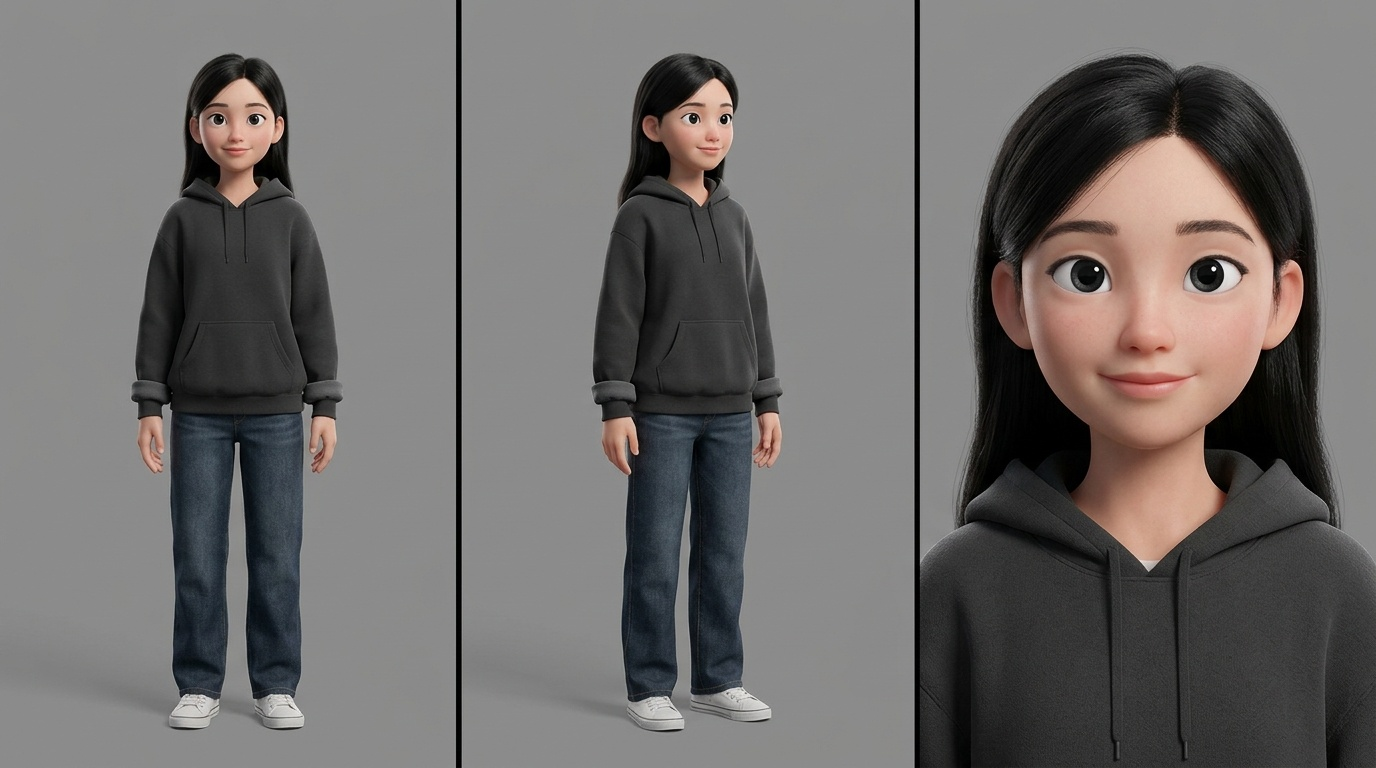
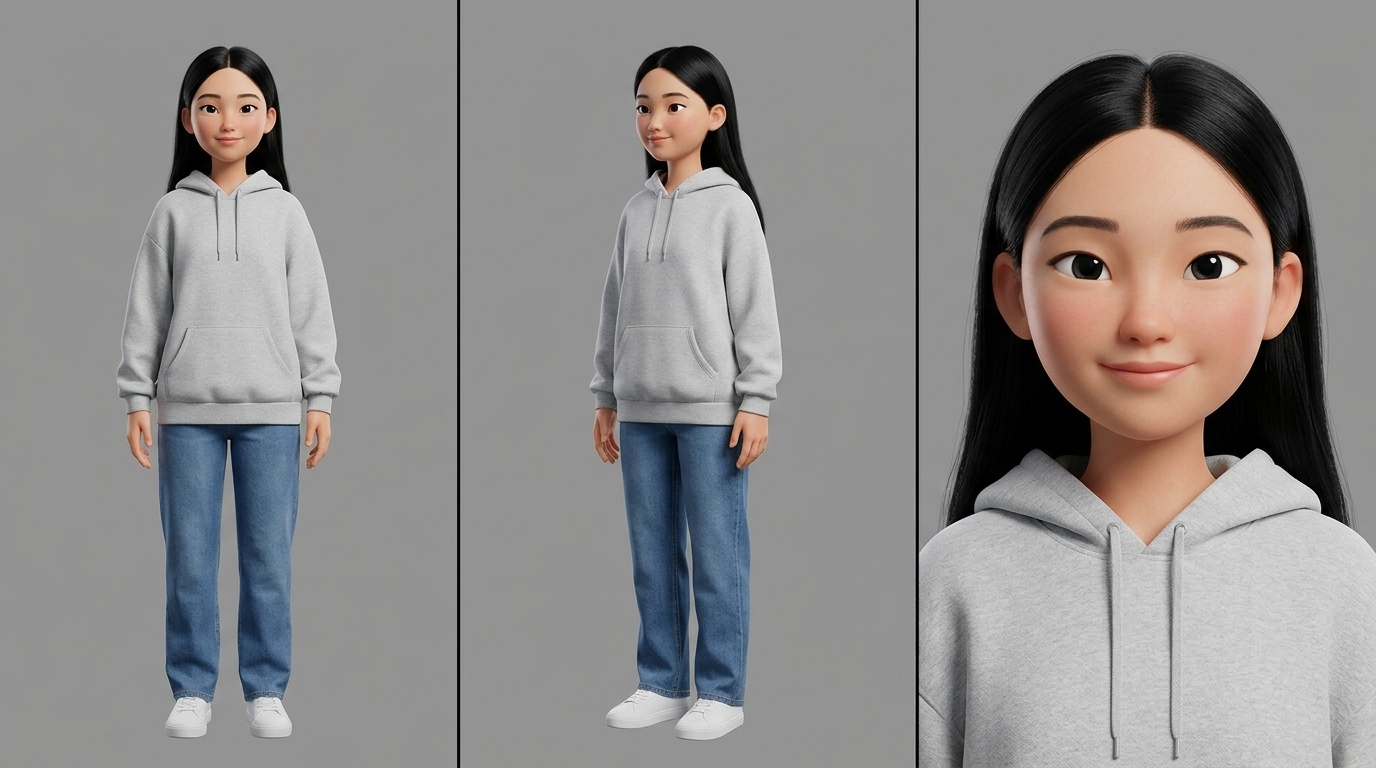
Update Character Sheets: Ruslan canonical face with luxury tee, Aigerim without wrap, Aigerim vacation slides, Daughter grey hoodie

diff --git a/index.html b/index.html
@@ -1139,7 +1139,7 @@
           <div class="asset-body">
             <span class="asset-tag">Сцена 5 · Прогулка</span>
             <h3 class="asset-title">Старшая дочь (15 лет)</h3>
-            <p class="asset-desc">Юная 15-летняя девушка-подросток со свежими нежными чертами лица, длинные прямые темные волосы, стильное оверсайз-худи в стиле современного кэжуал-стритвир, джинсы и белые кеды.</p>
+            <p class="asset-desc">Светло-серое оверсайз-худи, классические синие джинсы и белые кеды. Юный образ, прямые темные волосы и открытая улыбка.</p>
           </div>
         </div>
 
@@ -1841,7 +1841,7 @@
     // Gallery Data for Lightbox
     const galleries = {
       storyboard: [{"img": "assets/images/storyboard/01_shot1_1_scene1_ruslan_child_entry.jpg?v=1794492184", "title": "Shot 1.1 · Первое появление героя", "desc": "«Сегодня особенный день — день рождения человека, чей жизненный путь вдохновляет.»"}, {"img": "assets/images/storyboard/02_shot1_2_scene1_family_birthday_table.jpg?v=1794492184", "title": "Shot 1.2 · Семейный праздник за столом", "desc": "«Всё началось с крепких корней...»"}, {"img": "assets/images/storyboard/03_shot2_1_scene2_ruslan_youth_portrait.jpg?v=1794492184", "title": "Shot 2.1 · Становление характера (19 лет)", "desc": "«...безграничной любви и нежной заботы мамы...»"}, {"img": "assets/images/storyboard/04_shot2_2_scene2_family_hall_blessing.jpg?v=1794492184", "title": "Shot 2.2 · Родительское благословение (20 лет)", "desc": "«...мудрости и чести, заложенных отцом.»"}, {"img": "assets/images/storyboard/05_shot3_1_scene3_navy_officer_deck.jpg?v=1794492184", "title": "Shot 3.1 · Офицер флота на вахте", "desc": "«Белоснежная форма офицера морского флота открыла бескрайние горизонты...»"}, {"img": "assets/images/storyboard/06_shot3_2_scene3_caspian_sunrise_vista.jpg?v=1794492184", "title": "Shot 3.2 · Бескрайние горизонты Каспия", "desc": "«...и научила уверенно держать штурвал судьбы.»"}, {"img": "assets/images/storyboard/07_shot4_1_scene4_chess_grandmaster.jpg?v=1794492184", "title": "Shot 4.1 · Гроссмейстер за доской", "desc": "«...а шахматы, спорт и докторская степень...»"}, {"img": "assets/images/storyboard/08_shot4_2_scene4_academic_sports_study.jpg?v=1794492184", "title": "Shot 4.2 · Стратегия и академический статус", "desc": "«...воспитали характер созидателя...»"}, {"img": "assets/images/storyboard/08b_shot4_3_scene4_championship_awards_detail.jpg?v=1794492184", "title": "Shot 4.3 · Спортивный триумф и победы", "desc": "«...и победителя.»"}, {"img": "assets/images/storyboard/09_shot5_1_scene5_father_and_children_walk.jpg?v=1794492184", "title": "Shot 5.1 · Счастливая прогулка по Терренкуру", "desc": "«Главное счастье и гордость Руслана — его трое детей...»"}, {"img": "assets/images/storyboard/10_shot5_2_scene5_father_hugging_three_kids.jpg?v=1794492184", "title": "Shot 5.2 · Отец — главный герой", "desc": "«...для которых отец всегда останется настоящим героем.»"}, {"img": "assets/images/storyboard/11_shot6_1_scene6_executive_leader_focus.jpg?v=1794492184", "title": "Shot 6.1 · Взгляд первого руководителя", "desc": "«А впереди — новые горизонты и управление масштабными проектами...»"}, {"img": "assets/images/storyboard/12_shot6_2_scene6_mining_hq_epic_finale.jpg?v=1794492184", "title": "Shot 6.2 · Эпический финал и триумф", "desc": "«...в горнорудной индустрии на благо страны. С днем рождения, Руслан!»"}],
-      characters: [{"img": "assets/images/characters/01_scene1_ruslan_child_10yo.jpg?v=1794492184", "title": "Руслан в детстве (10 лет)", "desc": "1985 год · Сцена 1 — Светлый, энергичный мальчик 10 лет с открытым взглядом. Нарядная белая рубашка, винтажный вязаный жилет. Любознательный, горящие глаза."}, {"img": "assets/images/characters/02_scene1_mom_young_32yo.jpg?v=1794492184", "title": "Молодая мама (~32 года)", "desc": "1985 год · Сцена 1 — Молодая мама со светлыми пшенично-золотистыми волосами (блонд), нежное винтажное пастельное платье. Образ безграничной материнской заботы, тепла и уюта."}, {"img": "assets/images/characters/03_scene1_dad_young_36yo.jpg?v=1794492184", "title": "Молодой папа Бакытжан (~36 лет)", "desc": "1985 год · Сцена 1 — Молодой ученый-интеллигент, густые темные волосы без седины, БЕЗ ОЧКОВ. Белая рубашка с расстегнутым воротом. Спокойствие, мудрость."}, {"img": "assets/images/characters/04_scene1_sister_alina_child_6yo.jpg?v=1794492184", "title": "Сестренка Алина в детстве (6 лет)", "desc": "1985 год · Сцена 1 — Милая девочка с темными косичками и бантами, нарядное детское платье советского периода. Радостный и звонкий детский смех."}, {"img": "assets/images/characters/05_scene2_ruslan_youth_19yo.jpg?v=1794492184", "title": "Руслан в юности (19 лет)", "desc": "1994 год · Сцена 2 — Статный юноша студенческих лет, волевой подбородок, густые темные волосы. Кэжуал-куртка 90-х, решительный характер."}, {"img": "assets/images/characters/06_scene2_dad_mature_48yo.jpg?v=1794492184", "title": "Отец-наставник Бакытжан (48 лет)", "desc": "1994 год · Сцена 2 — Зрелый ученый с благородной проседью на висках, БЕЗ ОЧКОВ. Темный пиджак, академическая осанка. Главный наставник сына."}, {"img": "assets/images/characters/07_scene2_mom_mature_44yo.jpg?v=1794492184", "title": "Мудрая мама (44 года)", "desc": "1994 год · Сцена 2 — Зрелая женщина с добрыми лучистыми глазами, элегантный костюм. Мама, гордящаяся взрослением сына."}, {"img": "assets/images/characters/08_scene2_sister_alina_teen_16yo.jpg?v=1794492184", "title": "Сестра Алина — Подросток (16 лет)", "desc": "1994 год · Сцена 2 — Повзрослевшая сестренка-студентка в джинсовой куртке 90-х, с открытым взглядом и доброй улыбкой."}, {"img": "assets/images/characters/09_scene3_ruslan_navy_officer.jpg?v=1794492184", "title": "Руслан — Морской офицер (23 года)", "desc": "1998 год · Сцена 3 — Офицер ВМФ в белоснежном кителе с золотыми пуговицами и погонами. Выправка, мужественность, романтика морских просторов."}, {"img": "assets/images/characters/10_scene4_ruslan_academic_intellect.jpg?v=1794492184", "title": "Руслан — Стратег и ученый (30 лет)", "desc": "2005 год · Сцена 4 — Руслан в период защиты докторской степени и спортивных побед. Темно-синий костюм, идеальная физическая форма."}, {"img": "assets/images/characters/11_scene5_ruslan_father_47yo.jpg?v=1794492184", "title": "Руслан — Заботливый отец (47 лет)", "desc": "2017 год · Сцена 5 — Зрелый мужчина в уютном кэжуал-свитере и куртке для прогулок с детьми. Теплые морщинки у глаз, счастье отцовства."}, {"img": "assets/images/characters/12_scene5_daughter_eldest_21yo.jpg?v=1794492184", "title": "Старшая дочь (15 лет)", "desc": "Сцена 5 — Юная 15-летняя девушка-подросток в стильном оверсайз-худи, джинсах и белых кедах. Свежие нежные черты лица, длинные темные волосы, открытая улыбка."}, {"img": "assets/images/characters/13_scene5_son_eldest_19yo.jpg?v=1794492184", "title": "Старший сын (19 лет)", "desc": "Сцена 5 · Прогулка — Статный юноша спортивного телосложения, синяя демисезонная куртка. Живой, открытый взгляд, очень похож на отца."}, {"img": "assets/images/characters/14_scene5_son_youngest_11yo.jpg?v=1794492184", "title": "Младший сын (11 лет)", "desc": "Сцена 5 · Прогулка — Очаровательный мальчик в спортивной куртке. Держит папу за руку, шагает по дорожке."}, {"img": "assets/images/characters/15_scene6_ruslan_executive_leader.jpg?v=1794492184", "title": "Руслан — Топ-менеджер (51 год)", "desc": "2026 год · Сцена 6 (Юбилей) — Лидер горнорудного холдинга. Дорогой темно-синий костюм bespoke, белая сорочка. Харизма, масштаб и государственный авторитет."}],
+      characters: [{"img": "assets/images/characters/01_scene1_ruslan_child_10yo.jpg?v=1794492184", "title": "Руслан в детстве (10 лет)", "desc": "1985 год · Сцена 1 — Светлый, энергичный мальчик 10 лет с открытым взглядом. Нарядная белая рубашка, винтажный вязаный жилет. Любознательный, горящие глаза."}, {"img": "assets/images/characters/02_scene1_mom_young_32yo.jpg?v=1794492184", "title": "Молодая мама (~32 года)", "desc": "1985 год · Сцена 1 — Молодая мама со светлыми пшенично-золотистыми волосами (блонд), нежное винтажное пастельное платье. Образ безграничной материнской заботы, тепла и уюта."}, {"img": "assets/images/characters/03_scene1_dad_young_36yo.jpg?v=1794492184", "title": "Молодой папа Бакытжан (~36 лет)", "desc": "1985 год · Сцена 1 — Молодой ученый-интеллигент, густые темные волосы без седины, БЕЗ ОЧКОВ. Белая рубашка с расстегнутым воротом. Спокойствие, мудрость."}, {"img": "assets/images/characters/04_scene1_sister_alina_child_6yo.jpg?v=1794492184", "title": "Сестренка Алина в детстве (6 лет)", "desc": "1985 год · Сцена 1 — Милая девочка с темными косичками и бантами, нарядное детское платье советского периода. Радостный и звонкий детский смех."}, {"img": "assets/images/characters/05_scene2_ruslan_youth_19yo.jpg?v=1794492184", "title": "Руслан в юности (19 лет)", "desc": "1994 год · Сцена 2 — Статный юноша студенческих лет, волевой подбородок, густые темные волосы. Кэжуал-куртка 90-х, решительный характер."}, {"img": "assets/images/characters/06_scene2_dad_mature_48yo.jpg?v=1794492184", "title": "Отец-наставник Бакытжан (48 лет)", "desc": "1994 год · Сцена 2 — Зрелый ученый с благородной проседью на висках, БЕЗ ОЧКОВ. Темный пиджак, академическая осанка. Главный наставник сына."}, {"img": "assets/images/characters/07_scene2_mom_mature_44yo.jpg?v=1794492184", "title": "Мудрая мама (44 года)", "desc": "1994 год · Сцена 2 — Зрелая женщина с добрыми лучистыми глазами, элегантный костюм. Мама, гордящаяся взрослением сына."}, {"img": "assets/images/characters/08_scene2_sister_alina_teen_16yo.jpg?v=1794492184", "title": "Сестра Алина — Подросток (16 лет)", "desc": "1994 год · Сцена 2 — Повзрослевшая сестренка-студентка в джинсовой куртке 90-х, с открытым взглядом и доброй улыбкой."}, {"img": "assets/images/characters/09_scene3_ruslan_navy_officer.jpg?v=1794492184", "title": "Руслан — Морской офицер (23 года)", "desc": "1998 год · Сцена 3 — Офицер ВМФ в белоснежном кителе с золотыми пуговицами и погонами. Выправка, мужественность, романтика морских просторов."}, {"img": "assets/images/characters/10_scene4_ruslan_academic_intellect.jpg?v=1794492184", "title": "Руслан — Стратег и ученый (30 лет)", "desc": "2005 год · Сцена 4 — Руслан в период защиты докторской степени и спортивных побед. Темно-синий костюм, идеальная физическая форма."}, {"img": "assets/images/characters/11_scene5_ruslan_father_47yo.jpg?v=1794492184", "title": "Руслан — Заботливый отец (47 лет)", "desc": "2017 год · Сцена 5 — Зрелый мужчина в уютном кэжуал-свитере и куртке для прогулок с детьми. Теплые морщинки у глаз, счастье отцовства."}, {"img": "assets/images/characters/12_scene5_daughter_eldest_21yo.jpg?v=1794492184", "title": "Старшая дочь (15 лет)", "desc": "Сцена 5 — Светло-серое оверсайз-худи, синие джинсы, белые кеды, юный открытый взгляд."}, {"img": "assets/images/characters/13_scene5_son_eldest_19yo.jpg?v=1794492184", "title": "Старший сын (19 лет)", "desc": "Сцена 5 · Прогулка — Статный юноша спортивного телосложения, синяя демисезонная куртка. Живой, открытый взгляд, очень похож на отца."}, {"img": "assets/images/characters/14_scene5_son_youngest_11yo.jpg?v=1794492184", "title": "Младший сын (11 лет)", "desc": "Сцена 5 · Прогулка — Очаровательный мальчик в спортивной куртке. Держит папу за руку, шагает по дорожке."}, {"img": "assets/images/characters/15_scene6_ruslan_executive_leader.jpg?v=1794492184", "title": "Руслан — Топ-менеджер (51 год)", "desc": "2026 год · Сцена 6 (Юбилей) — Лидер горнорудного холдинга. Дорогой темно-синий костюм bespoke, белая сорочка. Харизма, масштаб и государственный авторитет."}],
       environments: [{"img": "assets/images/environments/01_scene1_childhood_kitchen_dining.jpg?v=1794492184", "title": "Сцена 01 · Кухня алматинской квартиры (1985 г.)", "desc": "Теплая залитая солнцем кухня алматинской квартиры на 3-м этаже. Самовар, праздничный торт, осенний ноябрь за окном, вид на золотые кроны и снежные вершины Заилийского Алатау."}, {"img": "assets/images/environments/02_scene2_youth_family_hall.jpg?v=1794492184", "title": "Сцена 02 · Гостиная и кабинет профессора (1994 г.)", "desc": "Уютная гостиная алматинского академика: дубовые книжные шкафы с томами энциклопедий, шахматный столик, тяжелые бархатные шторы, вечерний мягкий свет торшера."}, {"img": "assets/images/environments/03_scene3_naval_ship_bridge.jpg?v=1794492184", "title": "Сцена 03 · Капитанский мостик корабля на Каспии (1998 г.)", "desc": "Панорамный капитанский мостик боевого корабля ВМФ. Навигационные приборы, хромированный штурвал, бирюзовое Каспийское море до горизонта в лучах утреннего рассвета."}, {"img": "assets/images/environments/04_scene4_intellect_sports_study.jpg?v=1794492184", "title": "Сцена 04 · Кабинет гроссмейстера и доктора наук (2005 г.)", "desc": "Респектабельный личный кабинет: шахматный стол карельской березы с расставленными деревянными фигурами, наградные кубки на полках, кожаное кресло, вечерний вид на город."}, {"img": "assets/images/environments/05_scene5_almaty_green_park.jpg?v=1794492184", "title": "Сцена 05 · Осенний парк и Терренкур в Алматы (2017 г.)", "desc": "Живописная аллея вдоль речки Малая Алматинка. Золотой кленовый ковер, деревянные скамейки, мостик, теплый осенний свет сквозь кроны вековых деревьев."}, {"img": "assets/images/environments/06_scene6_executive_observation_gallery.jpg?v=1794492184", "title": "Сцена 06 · Смотровая площадка горного комбината (2026 г.)", "desc": "Современное здание штаб-квартиры горнорудной компании. Панорамная терраса с видом на масштабный карьер, БелАЗы, обогатительную фабрику и вечные снежные горы на закате."}],
       characters_film2: [{"img": "assets/images/characters_film2/01_scene1_ruslan_restaurant_suit.jpg?v=1794492184", "title": "Сцена 1 · Наурыз 22 марта · Руслан", "desc": "Руслан в темно-синем блейзере — Стильный клубный темно-синий блейзер, белоснежная сорочка с расстегнутым воротом без галстука. Спокойный, открытый и теплый взгляд в момент первой встречи."}, {"img": "assets/images/characters_film2/02_scene1_aigerim_restaurant_ivory_suit.jpg?v=1794492184", "title": "Сцена 1 · Наурыз 22 марта · Айгерим", "desc": "Айгерим в брючном костюме цвета слоновой кости — Элегантный брючный костюм оттенка слоновой кости, шелковый топ, изящные жемчужные серьги-капли. Легкая улыбка и искра узнавания родной души."}, {"img": "assets/images/characters_film2/03_scene1_friend_man_polo.jpg?v=1794492184", "title": "Сцена 1 · Наурыз 22 марта · Друг Руслана", "desc": "Друг Руслана в темном блейзере — Темноволосый интеллигентный мужчина (~48–50 лет), темный кэжуал-блейзер и графитовое поло. Доброжелательный компаньон праздничного ужина."}, {"img": "assets/images/characters_film2/04_scene1_friend_woman_polka_dress.jpg?v=1794492184", "title": "Сцена 1 · Наурыз 22 марта · Подруга Айгерим", "desc": "Подруга Айгерим в платье в горошек — Эффектная блондинка со стильной стрижкой, темно-синее шелковое платье в мелкий горошек с воротником-жабо. Живая и поддерживающая атмосфера."}, {"img": "assets/images/characters_film2/05_scene2_ruslan_sequence_polo.jpg?v=1794492184", "title": "Сцена 2 · Игра Sequence · Руслан", "desc": "Руслан в уютном поло цвета мокко — Кашемировое трикотажное поло оттенка мокко, расслабленная домашняя атмосфера. Искренний мальчишеский азарт и победный блеск в глазах."}, {"img": "assets/images/characters_film2/06_scene2_aigerim_sequence_cozy_knit.jpg?v=1794492184", "title": "Сцена 2 · Игра Sequence · Айгерим", "desc": "Айгерим в кремовом свитере крупной вязки — Мягкий оверсайз-свитер цвета топленого молока, свободные локоны. Заразительный, звонкий смех над игровым столом."}, {"img": "assets/images/characters_film2/07_scene3_ruslan_call_almaty_sweater.jpg?v=1794492184", "title": "Сцена 3 · Звонки сквозь расстояние · Руслан", "desc": "Руслан в графитовом пуловере со смартфоном — Тонкий шерстяной пуловер цвета антрацита. Смартфон у уха, теплый взгляд на закатные горы, ощущение близости несмотря на тысячи километров."}, {"img": "assets/images/characters_film2/08_scene3_aigerim_call_moscow_sweater.jpg?v=1794492184", "title": "Сцена 3 · Звонки сквозь расстояние · Айгерим", "desc": "Айгерим в шерстяном свитере экрю со смартфоном — Теплый фактурный свитер экрю с высоким воротом. Разговор поздним вечером с видом на огни ночной Москвы, нежная улыбка в трубку."}, {"img": "assets/images/characters_film2/09_scene4_ruslan_chalet_aran_knit.jpg?v=1794492184", "title": "Сцена 4 · Горное шале у камина · Руслан", "desc": "Руслан в аранском свитере цвета овсянки — Массивный свитер с косами из натуральной шерсти. Жест заботы — укутывание любимой женщины пледом в горном шале у горящего камина."}, {"img": "assets/images/characters_film2/10_scene4_aigerim_chalet_cozy_plaid.jpg?v=1794492184", "title": "Сцена 4 · Горное шале у камина · Айгерим", "desc": "Айгерим в зимнем свитере с кружкой чая — Уютный бежевый свитер, клетчатый плед на коленях, горячая кружка травяного чая в ладонях. Спокойствие, чувство защищенности и любви."}, {"img": "assets/images/characters_film2/11_scene5_ruslan_resort_linen_shirt.jpg?v=1794492184", "title": "Сцена 5 · Мечты о путешествиях · Руслан", "desc": "Руслан в льняной рубашке цвета морской соли — Светлая льняная рубашка с закатанными рукавами, свободные светлые брюки. Прогулка по набережным Парижа и пляжам Мальдив."}, {"img": "assets/images/characters_film2/12_scene5_aigerim_resort_silk_dress.jpg?v=1794492184", "title": "Сцена 5 · Мечты о путешествиях · Айгерим", "desc": "Айгерим в струящемся жемчужно-белом шелковом платье — Легкое шелковое макси-платье оттенка жемчуга на тонких бретелях, развивающееся на закатном ветру. Образ романтичной путешественницы."}, {"img": "assets/images/characters_film2/13_scene6_ruslan_birthday_white_shirt.jpg?v=1794492184", "title": "Сцена 6 · Финал: День рождения · Руслан", "desc": "Руслан в праздничной белоснежной сорочке — Белоснежная рубашка с расстегнутым воротом, рука прижата к сердцу в жесте искренней благодарности и глубокого счастья."}, {"img": "assets/images/characters_film2/14_scene6_aigerim_birthday_evening_gown.jpg?v=1794492184", "title": "Сцена 6 · Финал: День рождения · Айгерим", "desc": "Айгерим в скульптурном белом вечернем платье — Изысканное кутюрное белое платье с асимметричным вырезом на одно плечо. Айгерим преподносит именинный торт с горящими свечами «51»."}],
       environments_film2: [{"img": "assets/images/environments_film2/01_scene1_nauryz_restaurant_dinner.jpg?v=1794492184", "title": "Сцена 1 · 0:00 – 0:08 · Ресторан Наурыз — Стол на четверых", "desc": "Премиальный ресторан в Алматы: круглый стол из темного ореха на 4 персоны с открытой линией взгляда между Русланом и Айгерим через друзей, весенний букет тюльпанов и сирени, золотой светильник, за панорамным стеклом — вечерние огни города и снежные пики Алатау."}, {"img": "assets/images/environments_film2/02_scene2_sequence_board_game_table.jpg?v=1794492184", "title": "Сцена 2 · 0:08 – 0:16 · Стол игры Sequence — «Тот самый вечер»", "desc": "Уютная вечерняя лаундж-зона: на деревянном столе разложено синее поле настольной игры Sequence, карты, синие и зеленые фишки. Теплый янтарный абажур над столом, мягкий диван и книжные полки в размытом фоне."}, {"img": "assets/images/environments_film2/03_scene3_split_moscow_almaty.jpg?v=1794492184", "title": "Сцена 3 · 0:16 – 0:24 · Сплит-экран (Диптих) — Москва ↔ Алматы", "desc": "Кинематографичный сплит-экран: слева — ночные сияющие башни Москва-Сити за окном апартаментов с ноутбуком; справа — закатные розово-золотые вершины Алатау за окном пентхауса с уютным креслом и торшером в Алматы."}, {"img": "assets/images/environments_film2/04_scene4_mountain_chalet_fireplace.jpg?v=1794492184", "title": "Сцена 4 · 0:24 – 0:32 · Горное шале у камина — «Тепло и забота»", "desc": "Гостиная высокогорного альпийского шале: массивный камин из дикого камня с живым огнем, свечи на деревянном столике, глубокие диваны с вязаными шерстяными подушками, заснеженный хвойный лес под звездным небом за окном."}, {"img": "assets/images/environments_film2/05a_scene5_paris_eiffel_twilight.jpg?v=1794492184", "title": "Сцена 5A · Париж · Париж — Набережная Сены и Эйфелева башня", "desc": "Match-Cut Camera Lock: центральный фронтальный ракурс 35мм с прямой мощёной аллеей по центру набережной Сены. Старинные кованые фонари, цветущая сакура и сияющая золотая Эйфелева башня на закате."}, {"img": "assets/images/environments_film2/05b_scene5_maldives_lagoon_monkey.jpg?v=1794492184", "title": "Сцена 5B · Мальдивы (Пасхалка: Обезьянка) · Мальдивы — Лагуна и Обезьянка", "desc": "Match-Cut Camera Lock: широкий естественный пляж из белоснежного песка слева, лазурная лагуна справа и открытый океан в лучах заката. Пасхалка Айгерим: на пальме слева сидит озорная тропическая обезьянка в стиле Pixar."}, {"img": "assets/images/environments_film2/05c_scene5_london_big_ben_golden_hour.jpg?v=1794492184", "title": "Сцена 5C · Лондон · Лондон — Набережная Темзы и Биг-Бен", "desc": "Match-Cut Camera Lock: прямой каменный тротуар набережной Темзы в золотой час. Винтажная красная телефонная будка, чугунные викторианские фонари и силуэт Биг-Бена в закатном свете."}, {"img": "assets/images/environments_film2/06_scene6_birthday_room_kitten.jpg?v=1794492184", "title": "Сцена 6 · Финал 51 год (Пасхалка: Котёнок) · Праздничная комната и Котёнок", "desc": "Торжественная комната ко дню рождения: мраморный стол для праздничного торта, подарки в золотых лентах, белые розы, нити теплых гирлянд, парящие золотые шары. Пасхалка Айгерим: очаровательный пушистый котенок в стиле Pixar, сладко спящий на кресле."}],
